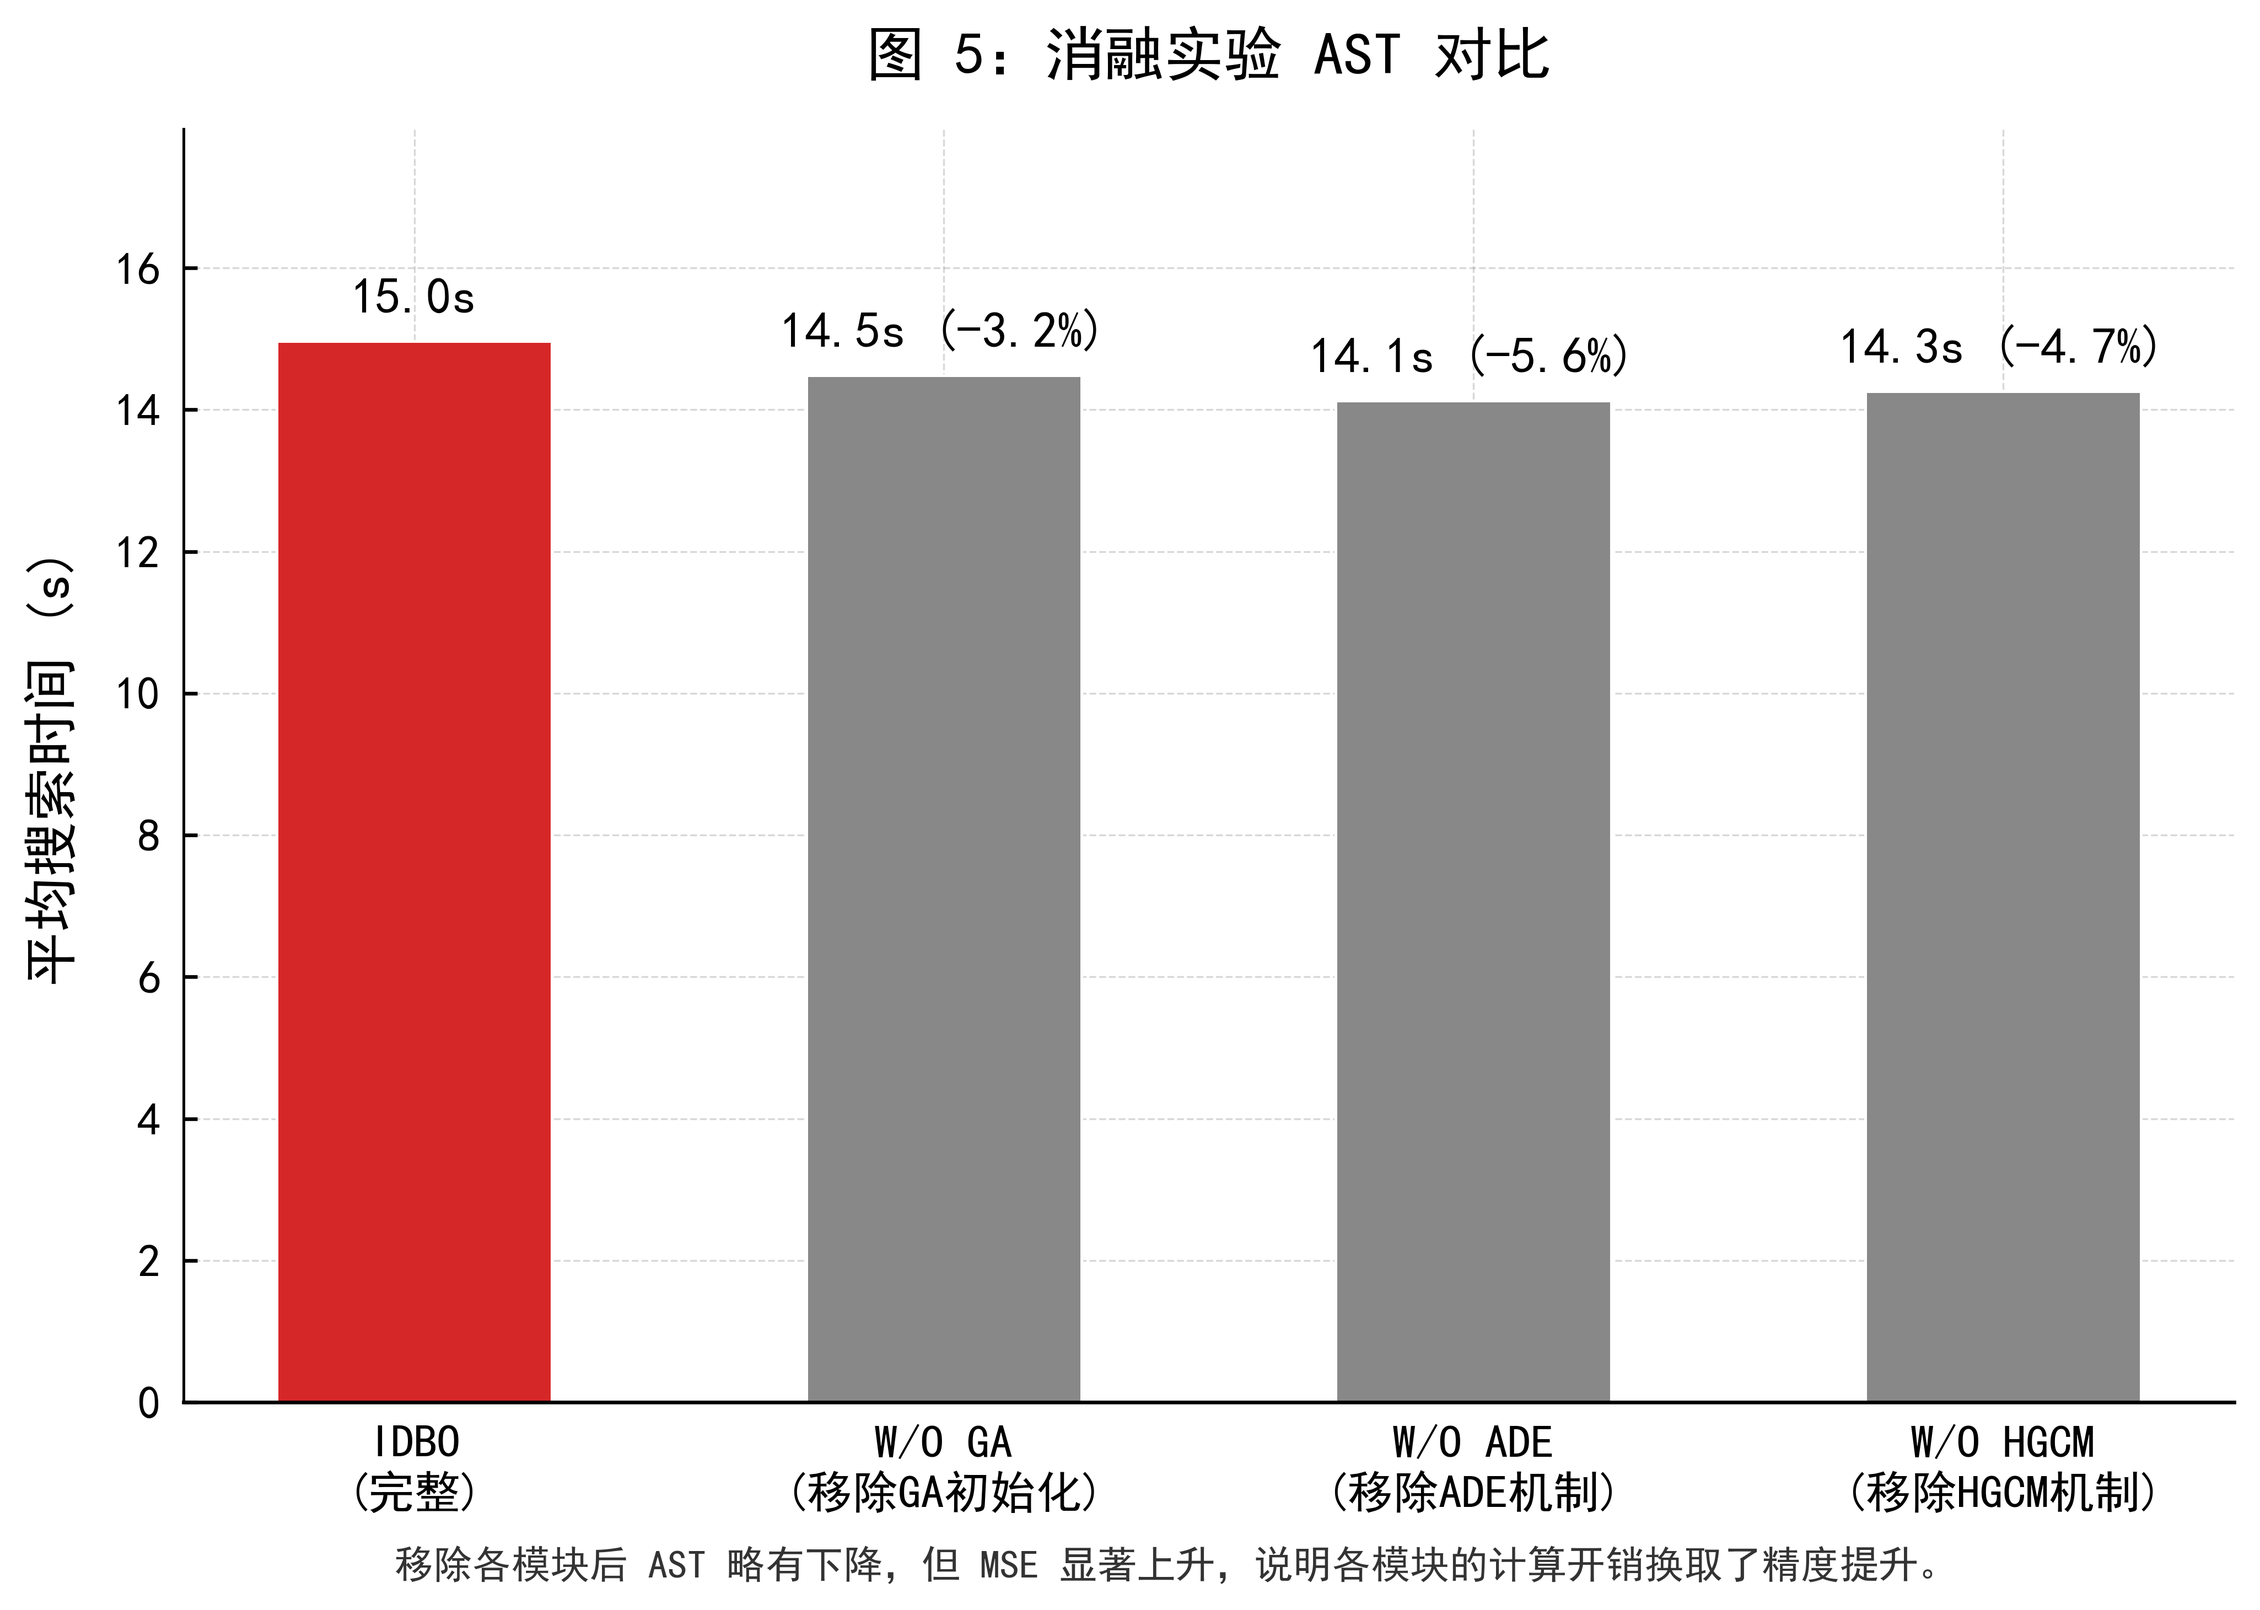
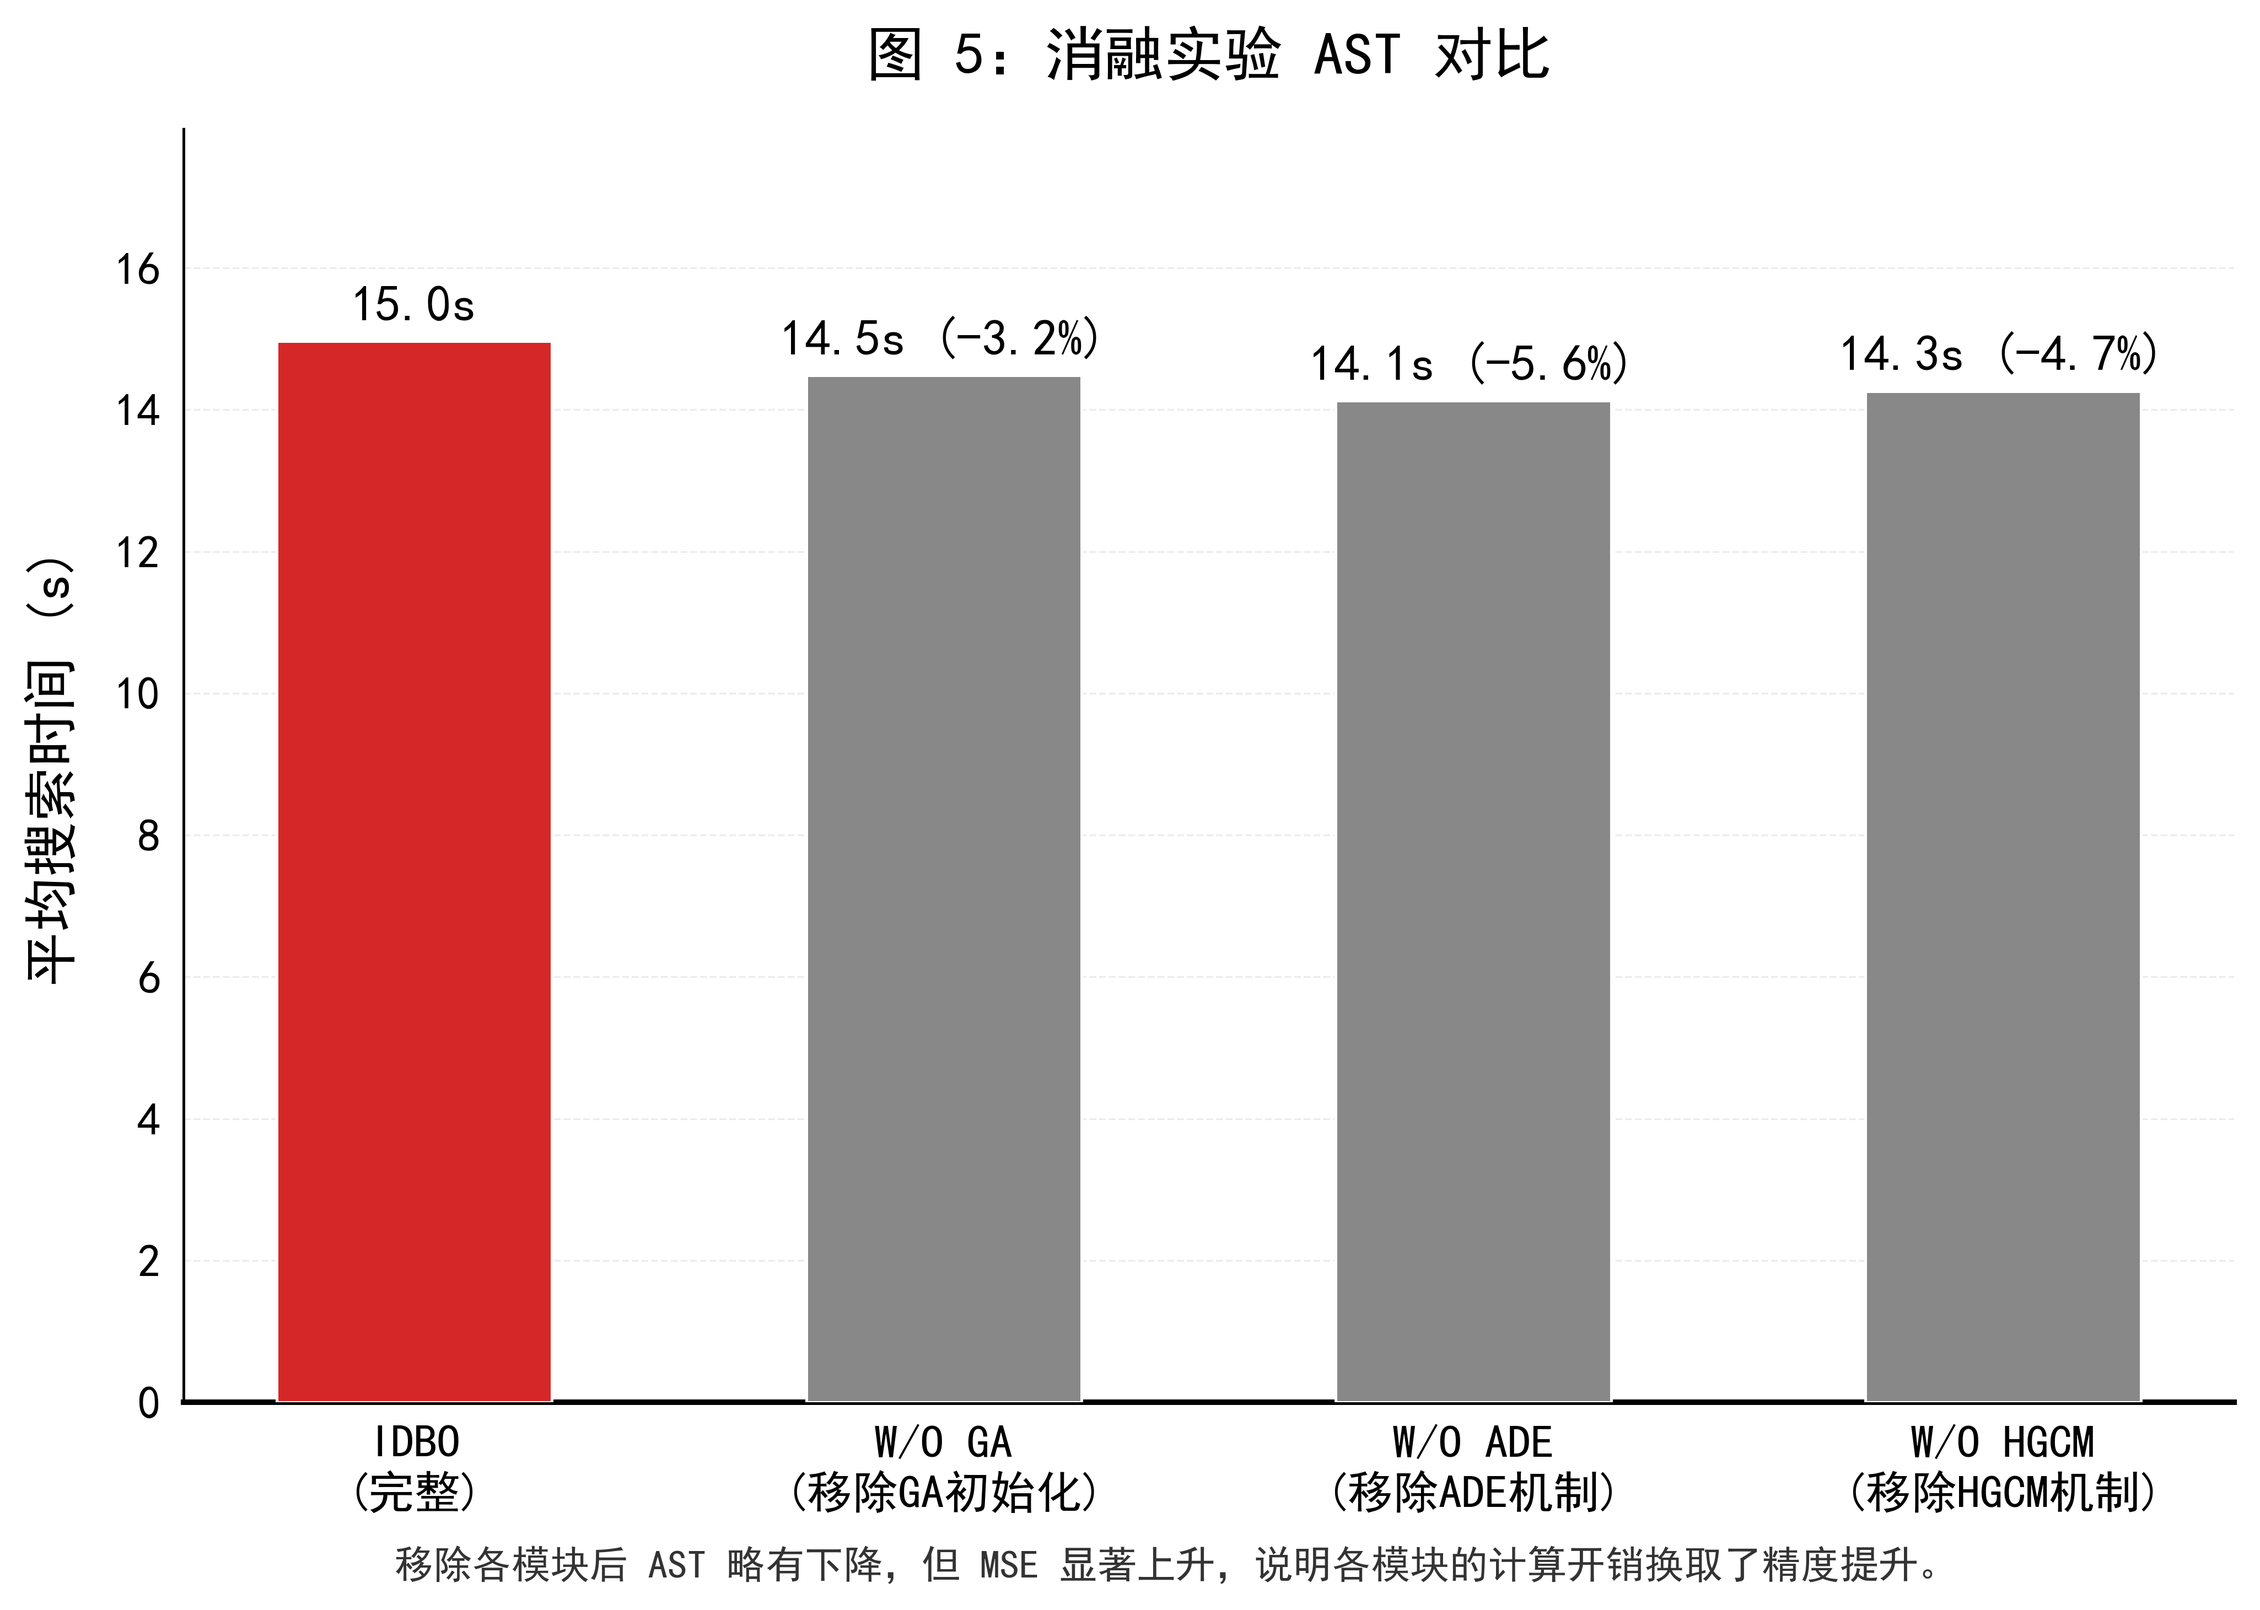
style: apply surgical SCI aesthetic refinements to all 7 charts

diff --git a/generate_real_charts.py b/generate_real_charts.py
@@ -25,7 +25,7 @@ plt.rcParams['axes.unicode_minus'] = False
 
 plt.rcParams.update({
     "font.size": 11, "axes.titlesize": 13, "axes.labelsize": 12,
-    "xtick.labelsize": 10, "ytick.labelsize": 10, "legend.fontsize": 9,
+    "xtick.labelsize": 10, "ytick.labelsize": 10, "legend.fontsize": 10,
     "text.color": "#000000", "axes.labelcolor": "#000000",
     "xtick.color": "#000000", "ytick.color": "#000000",
     "figure.dpi": 150, "savefig.dpi": 600,
@@ -35,7 +35,7 @@ plt.rcParams.update({
     "xtick.direction": "in", "ytick.direction": "in",
     "xtick.major.size": 4.5, "ytick.major.size": 4.5,
     "xtick.major.width": 0.8, "ytick.major.width": 0.8,
-    "grid.alpha": 0.30, "grid.linestyle": "--", "grid.linewidth": 0.4,
+    "grid.alpha": 0.15, "grid.linestyle": "--", "grid.linewidth": 0.4,
 })
 
 # ═══════════════════════════════════════════════════════════════════════════════
@@ -64,11 +64,11 @@ ALG_ORDER = ["SA", "WOA", "GWO", "IGOA", "HGS", "VCS", "ESA", "IDBO"]
 def open_axes(ax):
     ax.spines["top"].set_visible(False)
     ax.spines["right"].set_visible(False)
-    ax.spines["left"].set_linewidth(0.8)
-    ax.spines["bottom"].set_linewidth(0.8)
+    ax.spines["left"].set_linewidth(1.2)
+    ax.spines["bottom"].set_linewidth(1.2)
     ax.tick_params(axis="both", direction="in", which="both",
                    length=4.5, width=0.8, pad=5, color="#000000")
-    ax.grid(True, alpha=0.30, linestyle="--", linewidth=0.4, color="gray")
+    ax.grid(True, axis="y", alpha=0.15, linestyle="--", linewidth=0.4, color="gray")
     ax.set_axisbelow(True)
 
 def add_note(fig, text):
@@ -117,7 +117,7 @@ def draw_fig1():
         col = ALG_COL[alg]
         lw = 2.5 if alg == "IDBO" else 1.2
         alpha = 1.0 if alg == "IDBO" else 0.60
-        z = 8 if alg == "IDBO" else 3
+        z = 10 if alg == "IDBO" else 3
         ls = ALG_LS[alg]
         ax.plot(x, curves[alg], color=col, ls=ls, lw=lw, alpha=alpha,
                 label=alg, zorder=z)
@@ -132,8 +132,8 @@ def draw_fig1():
     ax.set_xlabel("迭代次数", fontsize=12, labelpad=8)
     ax.set_ylabel("ITAE 值", fontsize=12, labelpad=8)
 
-    ax.legend(loc="upper center", bbox_to_anchor=(0.5, 1.12),
-              ncol=4, frameon=False, fontsize=9.5,
+    ax.legend(loc="upper center", bbox_to_anchor=(0.5, -0.12),
+              ncol=4, frameon=False, fontsize=10,
               columnspacing=0.8, handlelength=1.6, handletextpad=0.4)
 
     # ── 内嵌放大图: X=[55,85], Y 动态计算 ──
@@ -166,7 +166,8 @@ def draw_fig1():
     ax_in.spines["bottom"].set_linewidth(0.6)
     ax_in.grid(True, alpha=0.18, linestyle=(0, (1.5, 2.5)), linewidth=0.25)
     ax_in.set_axisbelow(True)
-    mark_inset(ax, ax_in, loc1=1, loc2=2, fc="none", ec="#999", lw=0.55, alpha=0.55)
+    mark_inset(ax, ax_in, loc1=1, loc2=2, fc="none", ec="gray",
+               lw=0.8, alpha=0.30, ls=":")
 
     ax.set_title("图 1：8 种算法 ITAE 收敛曲线（含 55–85 迭代局部放大）",
                  fontsize=14, fontweight="bold", pad=48)
@@ -187,16 +188,20 @@ def draw_fig2():
     vals  = [summary[a]["Final_ITAE"] for a in names]
     colors = [IDBO_RED if a == "IDBO" else GRAY for a in names]
 
-    bars = ax.bar(names, vals, color=colors, width=0.55, edgecolor="white", linewidth=0.6)
+    bars = ax.bar(names, vals, color=colors, width=0.55, edgecolor="white", linewidth=0.6,
+                  zorder=3)
     for bar, val, a in zip(bars, vals, names):
-        ax.text(bar.get_x() + bar.get_width() / 2, val + (max(vals)-min(vals))*0.02,
-                f"{val:.4f}", ha="center", va="bottom", fontsize=10,
-                fontweight="bold" if a == "IDBO" else "normal", color="#000000")
+        ax.annotate(f"{val:.4f}",
+                    xy=(bar.get_x() + bar.get_width() / 2, val),
+                    xytext=(0, 3), textcoords="offset points",
+                    ha="center", va="bottom", fontsize=10,
+                    fontweight="bold" if a == "IDBO" else "normal", color="#000000")
 
     y_lo = min(vals) * 0.9999; y_hi = max(vals) * 1.008
     ax.set_ylim(y_lo, y_hi)
     ax.set_ylabel("ITAE 值", fontsize=12, labelpad=8)
     open_axes(ax)
+    ax.tick_params(axis="x", bottom=False)
     ax.set_title("图 2：各算法最终 ITAE 对比", fontsize=13, fontweight="bold", pad=12)
     add_note(fig, "IDBO 最终 ITAE 为 0.0789，与最优算法 WOA 并列第一。")
     save(fig, "Fig2_ITAE_Bar.png")
@@ -214,15 +219,19 @@ def draw_fig3():
     vals  = [summary[a]["AST_s"] for a in sorted_algs]
     colors = [IDBO_RED if a == "IDBO" else GRAY for a in sorted_algs]
 
-    bars = ax.bar(sorted_algs, vals, color=colors, width=0.55, edgecolor="white", linewidth=0.6)
+    bars = ax.bar(sorted_algs, vals, color=colors, width=0.55, edgecolor="white", linewidth=0.6,
+                  zorder=3)
     for bar, val, a in zip(bars, vals, sorted_algs):
-        ax.text(bar.get_x() + bar.get_width() / 2, val + max(vals)*0.02,
-                f"{val:.1f}s", ha="center", va="bottom", fontsize=10,
-                fontweight="bold" if a == "IDBO" else "normal", color="#000000")
+        ax.annotate(f"{val:.1f}s",
+                    xy=(bar.get_x() + bar.get_width() / 2, val),
+                    xytext=(0, 3), textcoords="offset points",
+                    ha="center", va="bottom", fontsize=10,
+                    fontweight="bold" if a == "IDBO" else "normal", color="#000000")
 
     ax.set_ylim(0, max(vals) * 1.18)
     ax.set_ylabel("平均搜索时间 (s)", fontsize=12, labelpad=8)
     open_axes(ax)
+    ax.tick_params(axis="x", bottom=False)
     ax.set_title("图 3：各算法平均搜索时间 (AST) 对比", fontsize=13, fontweight="bold", pad=12)
     add_note(fig, f"IDBO 的 AST={summary['IDBO']['AST_s']:.1f}s（最高），体现三重策略的计算开销。")
     save(fig, "Fig3_AST_Bar.png")
@@ -263,9 +272,11 @@ def draw_fig4():
 
     for i in range(n):
         lbl = f"{mses[i]:.4f}" if i == 0 else f"{mses[i]:.4f} (+{degs[i]:.1f}%)"
-        ax.text(mses[i] + (mses[-1]-mses[0])*0.03, y_pos[i], lbl,
-                va="center", ha="left", fontsize=11,
-                fontweight="bold" if i == 0 else "normal", color="#000000")
+        ax.annotate(lbl,
+                    xy=(mses[i], y_pos[i]),
+                    xytext=(6, 0), textcoords="offset points",
+                    va="center", ha="left", fontsize=11,
+                    fontweight="bold" if i == 0 else "normal", color="#000000")
 
     ax.set_yticks(y_pos)
     ax.set_yticklabels(labels, fontsize=10)
@@ -274,7 +285,7 @@ def draw_fig4():
     ax.invert_yaxis()
     open_axes(ax)
     ax.spines["left"].set_linewidth(0.6)
-    ax.tick_params(axis="y", length=0)
+    ax.tick_params(axis="both", bottom=False, left=False, length=0)
     ax.set_title("图 4：消融实验 MSE 对比", fontsize=13, fontweight="bold", pad=12)
     add_note(fig, "ADE 机制贡献最大 (+11.8%)，三项改进策略对算法精度均有正向作用。")
     save(fig, "Fig4_Ablation_MSE.png")
@@ -301,17 +312,20 @@ def draw_fig5():
     pcts   = [d[2] for d in ablation_ast]
     colors = [d[3] for d in ablation_ast]
 
-    bars = ax.bar(labels, asts, color=colors, width=0.52, edgecolor="white", linewidth=0.6)
+    bars = ax.bar(labels, asts, color=colors, width=0.52, edgecolor="white", linewidth=0.6,
+                  zorder=3)
     for bar, val, pct in zip(bars, asts, pcts):
         lbl = f"{val:.1f}s" if pct == 0 else f"{val:.1f}s ({pct:+.1f}%)"
-        ax.text(bar.get_x() + bar.get_width() / 2, val + max(asts)*0.02,
-                lbl, ha="center", va="bottom", fontsize=11, color="#000000")
+        ax.annotate(lbl,
+                    xy=(bar.get_x() + bar.get_width() / 2, val),
+                    xytext=(0, 3), textcoords="offset points",
+                    ha="center", va="bottom", fontsize=11, color="#000000")
 
     ax.set_ylim(0, max(asts) * 1.20)
     ax.set_ylabel("平均搜索时间 (s)", fontsize=12, labelpad=8)
     open_axes(ax)
     ax.spines["left"].set_linewidth(0.6)
-    ax.tick_params(axis="y", length=3)
+    ax.tick_params(axis="both", bottom=False, left=False, length=0)
     ax.set_title("图 5：消融实验 AST 对比", fontsize=13, fontweight="bold", pad=12)
     add_note(fig, "移除各模块后 AST 略有下降，但 MSE 显著上升，说明各模块的计算开销换取了精度提升。")
     save(fig, "Fig5_Ablation_AST.png")
@@ -341,7 +355,7 @@ def draw_fig6():
     ax.plot(t, freq_exp,  color=GRAY_LIGHT, lw=1.8, ls="--",  label="经验参数组")
     ax.plot(t, freq_dbo,  color="#999999",   lw=1.8, ls="-.",  label="DBO 优化组")
     ax.plot(t, freq_idbo, color=IDBO_RED,    lw=2.6, ls="-",   label="IDBO 优化组（本文）")
-    ax.axhline(50.0, color="gray", lw=0.8, ls=":")
+    ax.axhline(50.0, color="black", lw=1.5, ls="--", alpha=0.6, zorder=1)
 
     for ts, lb, col in [(3.20, "3.20 s", GRAY_LIGHT), (3.03, "3.03 s", "#999999"), (2.60, "2.60 s", IDBO_RED)]:
         ax.axvline(t0 + ts, color=col, lw=1.1, ls=":", alpha=0.7)
@@ -383,7 +397,7 @@ def draw_fig7():
     ax.plot(t, spd_exp,  color=GRAY_LIGHT, lw=1.8, ls="--",  label="经验参数组")
     ax.plot(t, spd_dbo,  color="#999999",   lw=1.8, ls="-.",  label="DBO 优化组")
     ax.plot(t, spd_idbo, color=IDBO_RED,    lw=2.6, ls="-",   label="IDBO 优化组（本文）")
-    ax.axhline(0, color="gray", lw=0.8, ls=":")
+    ax.axhline(0, color="black", lw=1.5, ls="--", alpha=0.6, zorder=1)
 
     for ts, lb, col in [(3.50, "3.50 s", GRAY_LIGHT), (3.10, "3.10 s", "#999999"), (2.70, "2.70 s", IDBO_RED)]:
         ax.axvline(t0 + ts, color=col, lw=1.1, ls=":", alpha=0.7)
